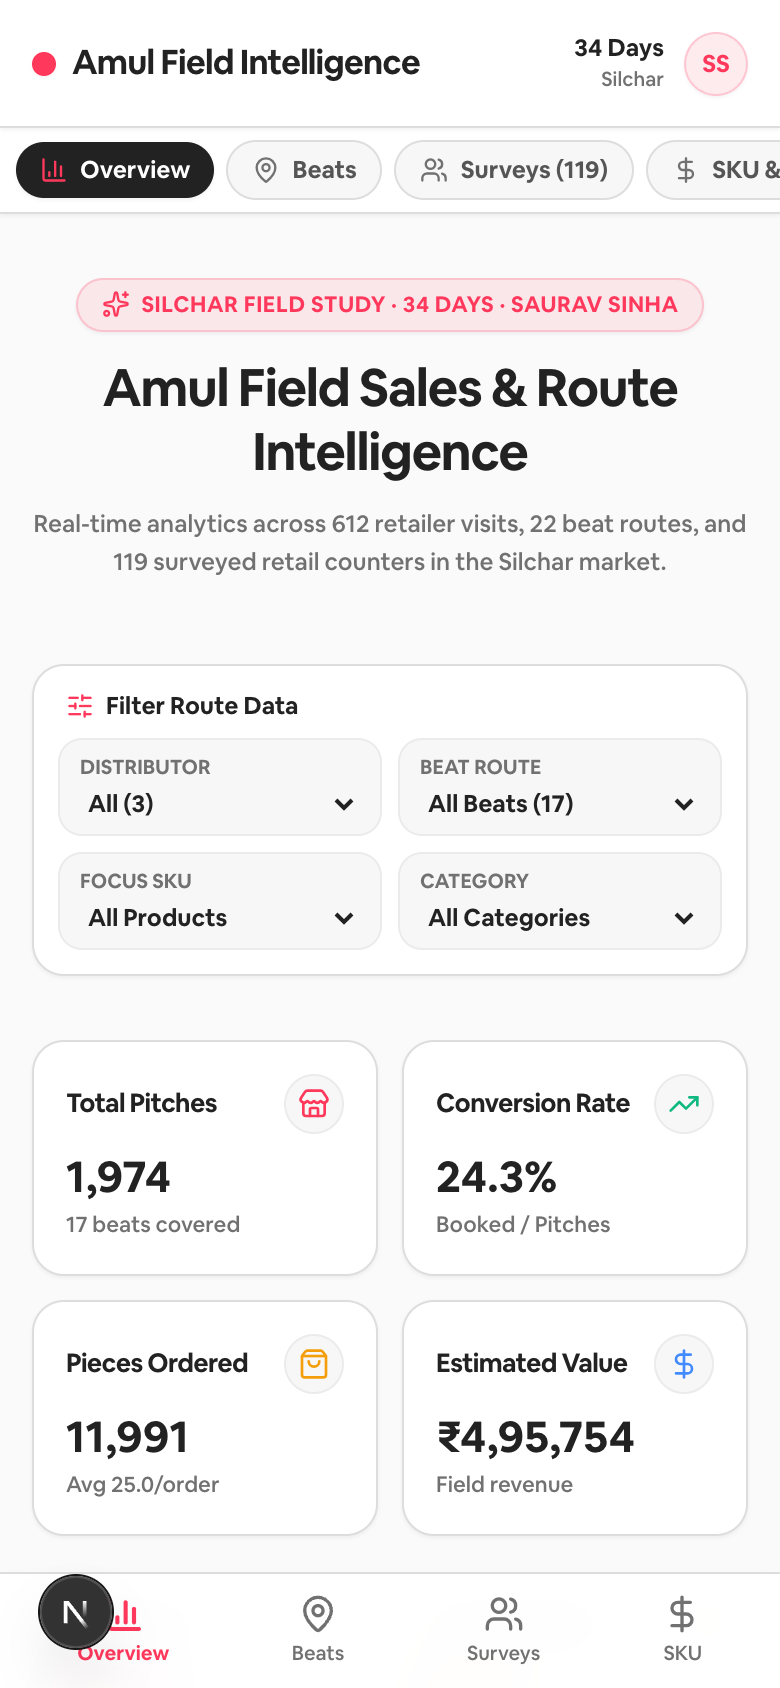
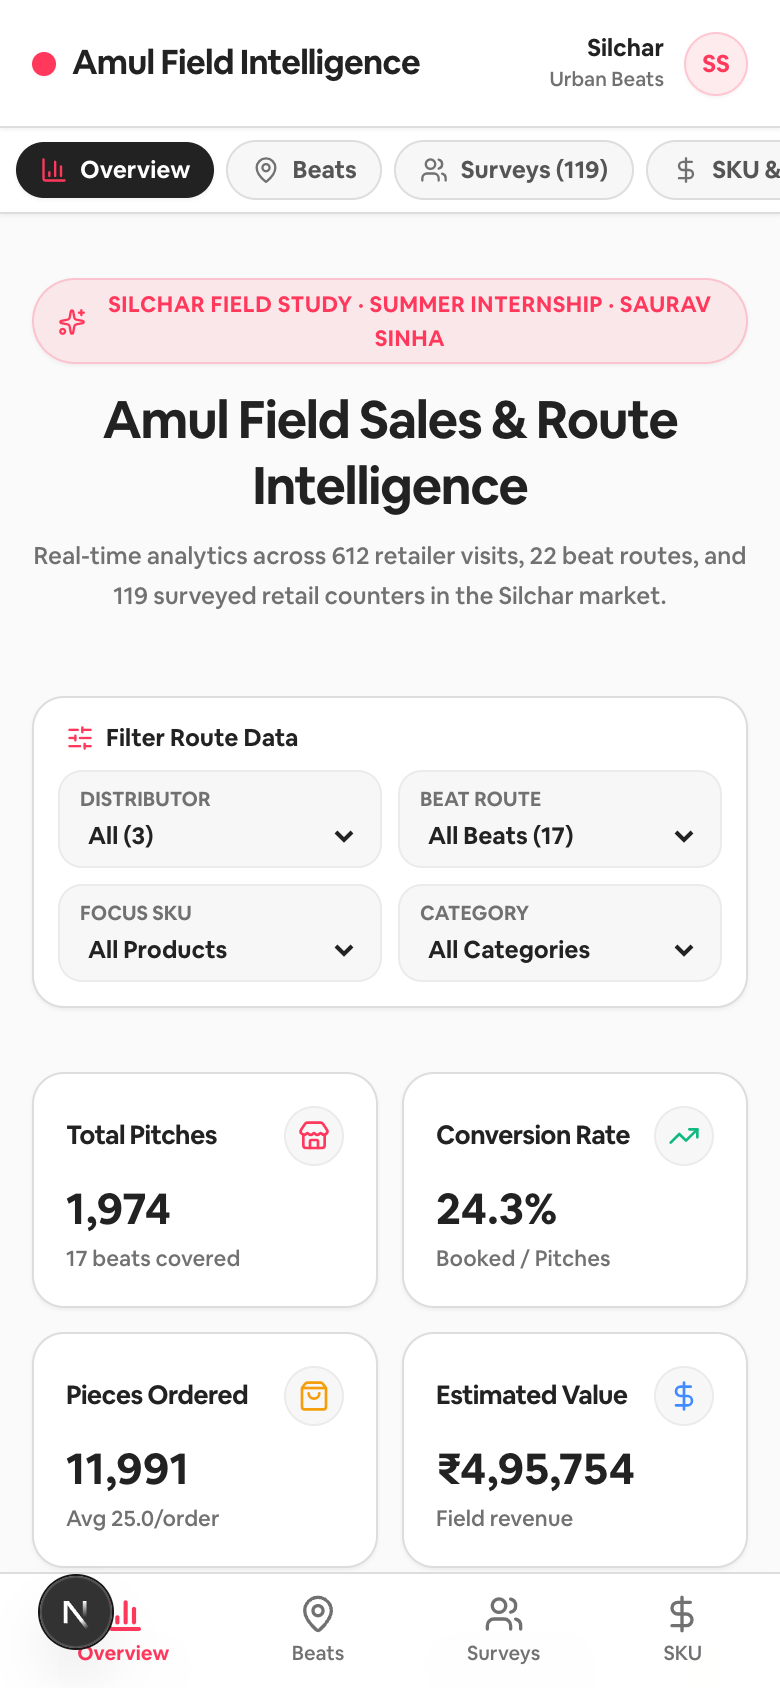
Remove all 34-day references across UI, documentation, code, and screenshots

diff --git a/next-dashboard/src/components/Dashboard.tsx b/next-dashboard/src/components/Dashboard.tsx
@@ -229,7 +229,7 @@ export default function Dashboard({ rawData, dataset }: DashboardProps) {
           {/* Hero Banner Section */}
           <div className="pt-8 sm:pt-12 pb-10 sm:pb-14 px-4 sm:px-8 text-center max-w-4xl mx-auto">
             <div className="inline-flex items-center gap-1.5 sm:gap-2 px-3 py-1 sm:px-3.5 sm:py-1.5 rounded-full bg-[#ff385c]/10 text-[#ff385c] text-[11px] sm:text-xs font-bold tracking-wide uppercase mb-3 border border-[#ff385c]/20 shadow-xs">
-              <Sparkles className="w-3.5 h-3.5 shrink-0" /> Silchar Field Study · 34 Days · Saurav Sinha
+              <Sparkles className="w-3.5 h-3.5 shrink-0" /> Silchar Field Study · Summer Internship · Saurav Sinha
             </div>
             <h1 className="text-[#222222] text-[26px] sm:text-[36px] md:text-[48px] font-bold tracking-tight leading-tight mb-2.5">
               Amul Field Sales & Route Intelligence
@@ -369,7 +369,7 @@ export default function Dashboard({ rawData, dataset }: DashboardProps) {
                     <p className="text-[11px] sm:text-xs text-[#717171] mt-0.5">Chronological field notes from Saurav Sinha across Silchar routes</p>
                   </div>
                   <span className="text-[11px] sm:text-xs font-semibold text-[#717171] bg-[#f7f7f7] px-2.5 py-1 rounded-full border border-[#dddddd] shrink-0">
-                    34 Days
+                    Market Logs
                   </span>
                 </div>
                 <div className="space-y-2.5 max-h-[300px] overflow-y-auto pr-1 custom-scrollbar">

diff --git a/next-dashboard/src/components/Charts.tsx b/next-dashboard/src/components/Charts.tsx
@@ -21,7 +21,7 @@ export function DailyTrendChart({ data }: DailyTrendChartProps) {
     <div className="bg-white border border-[#dddddd] rounded-[16px] p-4 sm:p-6 shadow-xs h-[340px] sm:h-[420px] flex flex-col justify-between">
       <div className="mb-2">
         <h3 className="text-[15px] sm:text-[17px] font-bold text-[#222222]">Daily Outlets Visited vs Orders Converted</h3>
-        <p className="text-[11px] sm:text-xs text-[#717171] mt-0.5">Track field conversion velocity across 34 market days</p>
+        <p className="text-[11px] sm:text-xs text-[#717171] mt-0.5">Track field conversion velocity across market visit dates</p>
       </div>
       <div className="flex-1 w-full min-h-[220px] sm:min-h-[300px]">
         <ResponsiveContainer width="100%" height="100%">

diff --git a/next-dashboard/src/components/TopNav.tsx b/next-dashboard/src/components/TopNav.tsx
@@ -56,8 +56,8 @@ export default function TopNav({ currentTab, onTabChange }: TopNavProps) {
         {/* User / Market Badge */}
         <div className="flex items-center space-x-2.5">
           <div className="flex flex-col text-right">
-            <span className="text-xs font-bold text-[#222222]">34 Days</span>
-            <span className="text-[10px] text-[#717171]">Silchar</span>
+            <span className="text-xs font-bold text-[#222222]">Silchar</span>
+            <span className="text-[10px] text-[#717171]">Urban Beats</span>
           </div>
           <div className="w-8 h-8 rounded-full bg-[#ff385c]/10 border border-[#ff385c]/20 flex items-center justify-center text-[#ff385c] font-bold text-xs shadow-xs">
             SS

diff --git a/src/import_saurav_data.py b/src/import_saurav_data.py
@@ -2,7 +2,7 @@
 ETL Pipeline V3 (Master High-Precision Edition)
 ================================================
 Comprehensive ingestion, cross-validation, and normalization of Saurav Sinha's
-entire 34-day Amul Field Internship dataset across:
+authentic Amul Field Internship dataset across:
 1. Daily Observation Logs & Individual Sale Files (Silchar Urban Beats)
 2. Verified Official Training Diary (45 Days Calendar)
 3. Cleaned Retailer Questionnaire Surveys (119 Outlets)
@@ -89,7 +89,7 @@ CANONICAL_PRODUCTS = {
     "Amul Gold 500ml": {"group": "Fresh Dairy", "subgroup": "Liquid Milk", "mrp": 34.0, "ptr": 31.00, "margin_percent": 8.8, "pack": "500ml Pouch", "case": 24},
 }
 
-# Verified 34-Day Master Schedule with Exact Calendar, Distributor, WDSM, and Beat
+# Verified Market Master Schedule with Exact Calendar, Distributor, WDSM, and Beat
 SCHEDULE_MASTER = [
     # Phase 1: Observation & Retailer Mapping
     {"day": 1, "date": "2026-05-25", "beat": "Malugram 4", "distributor": "Sengupta Agencies", "salesman": "Amarjeet Deb Purkayastha", "visited": 18, "converted": 17, "phase": "Observation"},

diff --git a/README.md b/README.md
@@ -6,7 +6,7 @@
 [![Tailwind CSS 4](https://img.shields.io/badge/Tailwind_CSS-v4.0-38bdf8?style=for-the-badge&logo=tailwind-css)](https://tailwindcss.com/)
 [![License](https://img.shields.io/badge/License-MIT-green?style=for-the-badge)](LICENSE)
 
-An interactive, high-fidelity field sales intelligence dashboard designed with an **Airbnb-inspired design system**. Built to analyze authentic field sales logs, distributor route productivity, competitive margin structures, and retailer sentiment from an intensive **34-day market study** conducted for **Gujarat Cooperative Milk Marketing Federation Ltd. (Amul)** across **Silchar, Assam**.
+An interactive, high-fidelity field sales intelligence dashboard designed with an **Airbnb-inspired design system**. Built to analyze authentic field sales logs, distributor route productivity, competitive margin structures, and retailer sentiment from an intensive **field market study** conducted for **Gujarat Cooperative Milk Marketing Federation Ltd. (Amul)** across **Silchar, Assam**.
 
 ---
 
@@ -58,7 +58,7 @@ Full 1-thumb touch navigation with a persistent bottom tab bar, swipeable filter
 
 ## 📊 Empirical Field Findings
 
-Based on 34 market days and 119 direct retailer interviews across Silchar urban beats:
+Based on comprehensive field visit logs and 119 direct retailer interviews across Silchar urban beats:
 
 | Metric / Dimension | Value | Strategic Implication |
 |---|---|---|
